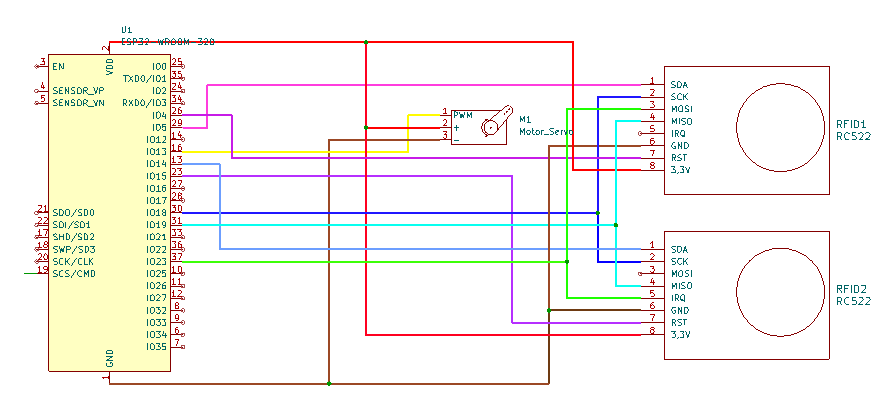
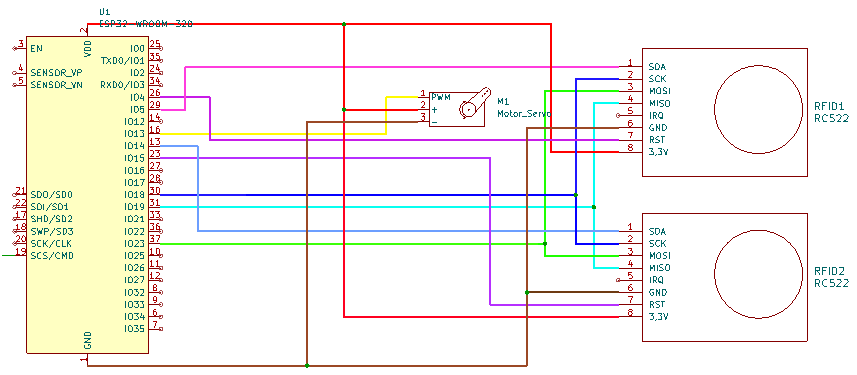
correciiones

diff --git a/Informe/Informe4.md b/Informe/Informe4.md
@@ -23,8 +23,7 @@ Mayo 2026
 # 1. Requerimientos Funcionales y No Funcionales
 ## Requerimientos Funcionales
 
-- El sistema debe permitir la lectura de tarjetas mediante un sensor RFID-RC522.
-
+- El sistema debe permitir la lectura de tarjetas mediante dos sensores RFID-RC522 uno de entrada y otro de salida. 
 - El sistema debe identificar y diferenciar cada tarjeta RFID registrada.
 - El sistema debe enviar el ID de la tarjeta leída hacia AWS IoT Core mediante MQTT.
 - El sistema debe actualizar el estado reportado del dispositivo en el Shadow de AWS IoT Core.
@@ -35,14 +34,15 @@ Mayo 2026
    - Automatizar la puerta (SedModeAuto)
    - Cambiar temporizador de puerta (SetAutoTimer)
    - Registrar un RFID autorizado (SetCurrentTag)
-   - Quitar un RFID registrado (RemoveCurrentTag)
+   - Quitar un RFID registrado (RemoveCurrentTag) 
+   -  Registar el ultimo Tag percibido (RegisterLastTagIntent)
     #### Comandos para recibir informacióm del sistema: 
    - Obtener estado del motor (GetMotorState) 
    - Obtener nombre del tag si esta presente (GetIfPresentTag) 
    - Obtener el tiempo de la ultima vez que se abrió la puerta (GetLastOpenTime) 
    - Obtener el ultimo tag registrado (GetLastTag) 
    - Obtener el estado de la puerta (GetDoorState)
-
+   - Conformar el registro del ultimo Tag (ConfirmTagRegistrationIntent)
 - El sistema debe controlar el servomotor MG90S en función de los comandos anteriormente mencionados. 
 - El sistema debe permitir el movimiento del servomotor cuando una tarjeta autorizada sea detectada.
 - El sistema debe negar el acceso cuando una tarjeta no autorizada sea detectada.
@@ -52,7 +52,8 @@ El sistema debe permitir que Alexa registre y mande las siguientes categorías:
    - Estado del motor: si está en movimiento o si está parado 
    - Información del sensor: si percibió algo, en qué momento percibió la mascota, que mascota percibió
    - nombre de la mascota
-
+- El sistema debe guardar datos en una Base de Datos (DynamoDB) cuando los sensores detecten un Tag.
+- El sistema debe guardar datos en DynamoDB las veces que se envio un comando de apertura, al Shadow del Objeto Inteligente.
 
 ## Requerimientos No Funcionales
 
@@ -75,20 +76,20 @@ El sistema debe permitir que Alexa registre y mande las siguientes categorías:
 ## 2.3 Diagramas estructurales y de comportamiento
 ### 2.3.1 Diagrama de secuencia
 ![Diagrama](Imagenes/Diagrama_de_secuencia.png)
-### 2.4 Diseño de la skill de Alexa 
-# Diseño de la Skill de Alexa
+### 2.3.2 Diagrama de secuencia
+![Diagrama](Imagenes/diagrama_uml.png)
 
-## Nombre de la Skill
+### 2.4 Diseño de la skill de Alexa 
+
+#### Nombre de la Skill
 
 **Smart_Pet_Door**
 
----
-
-## Invocation Name
+#### Invocation Name
 
 **Puerta Inteligente**
 
-## Tabla de Intents
+#### Tabla de Intents
 
 | Intent | Función | Slot | Ejemplo de comando |
 |----------|----------|----------|-------------------|
@@ -96,7 +97,9 @@ El sistema debe permitir que Alexa registre y mande las siguientes categorías:
 | SetModeAutoIntent | Activar modo automático | No tiene | "Activa modo automático" |
 | SetModeClosedIntent | Cerrar y bloquear la puerta | No tiene | "Cerrar la puerta" |
 | SetModeOpenIntent | Abrir la puerta | No tiene | "Abrir la puerta" |
-| AddNewTagIntent | Registrar una mascota nueva | `petName` | "Registrar mascota llamada Luna" |
+| AddNewTagIntent | Iniciar registro de una mascota | `petName` | "Registrar mascota llamada Luna" |
+| ConfirmTagRegistrationIntent | Confirmar registro después de acercar el tag | No tiene | "Confirmar registro" |
+| RegisterLastTagIntent | Registrar directamente el último tag detectado | `petName` | "Registrar último tag como Rocky" |
 | RemoveTagIntent | Eliminar una mascota | `petName` | "Eliminar mascota Luna" |
 | SetAutoTimerIntent | Configurar tiempo de apertura | `openTime` | "Timer de apertura 30 segundos" |
 | SetRegisterDurationIntent | Configurar duración de registro | `registerTime` | "Tiempo de registro 5 segundos" |
@@ -106,11 +109,9 @@ El sistema debe permitir que Alexa registre y mande las siguientes categorías:
 | GetLastOpenTimeIntent | Consultar última apertura | No tiene | "¿Cuándo se abrió la puerta?" |
 | GetListOfPetsIntent | Mostrar mascotas registradas | No tiene | "Listar mascotas" |
 
----
+#### Flujo de conversación
 
-## Flujo de conversación
-
-### Apertura de puerta
+##### Apertura de puerta
 
 ```text
 Usuario
@@ -134,7 +135,47 @@ Alexa responde:
 "La puerta fue abierta."
 ```
 
-### Registro de una mascota
+##### Registro de una mascota
+
+```text
+Usuario
+    ↓
+"Registrar mascota Oliver"
+
+Alexa Skill
+    ↓
+AddNewTagIntent
+    ↓
+AWS Lambda activa modo registro
+    ↓
+Actualización del Device Shadow
+    ↓
+ESP32 entra en modo registro
+    ↓
+Alexa responde:
+
+"Modo de registro activado.
+Acerca el tag y di confirmar registro"
+
+Usuario
+    ↓
+Acerca el RFID
+    ↓
+"Confirmar registro"
+
+Alexa Skill
+    ↓
+ConfirmTagRegistrationIntent
+    ↓
+Lee el último tag detectado
+    ↓
+Guarda información en DynamoDB
+    ↓
+Alexa responde:
+
+"Oliver fue registrado correctamente."
+```
+##### Registro de una mascota
 
 ```text
 Usuario
@@ -175,7 +216,6 @@ Alexa responde:
 
 #### 5. Tiempo promedio que la mascota permaneció fuera de casa
 ![Diagrama](Imagenes/mockup_5.png)
-
 
 ### 2.6 Diseño Modelo de Datos 
 ![Diagrama](Imagenes/diseño_modelo_datos.png)